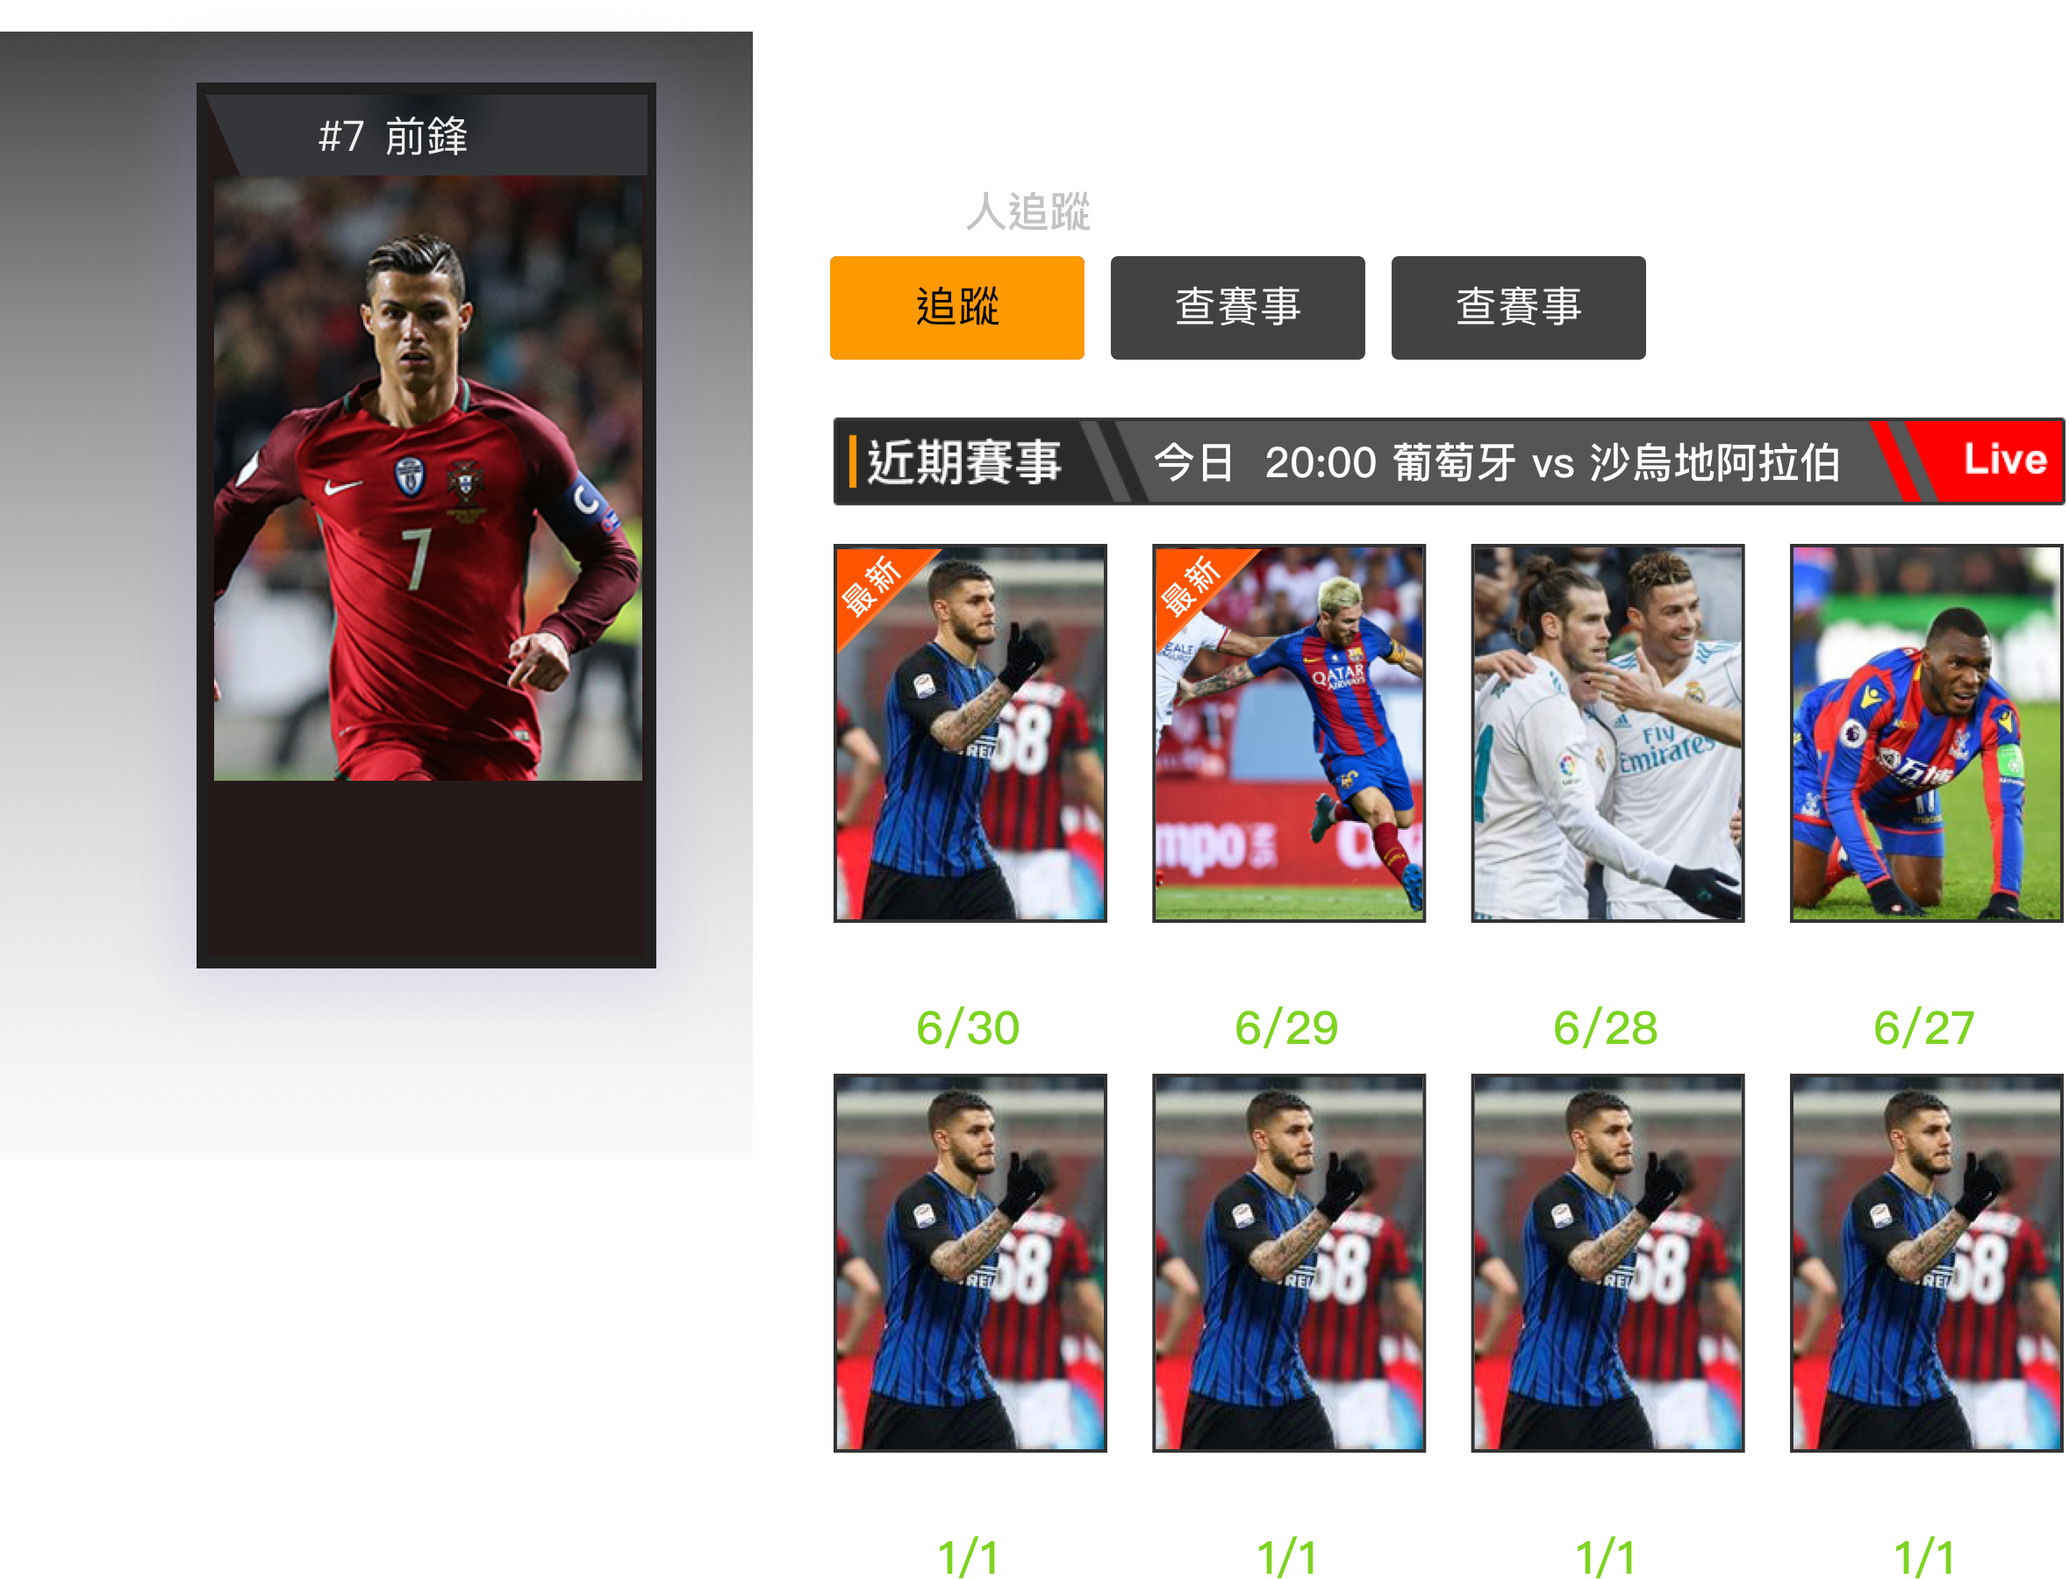
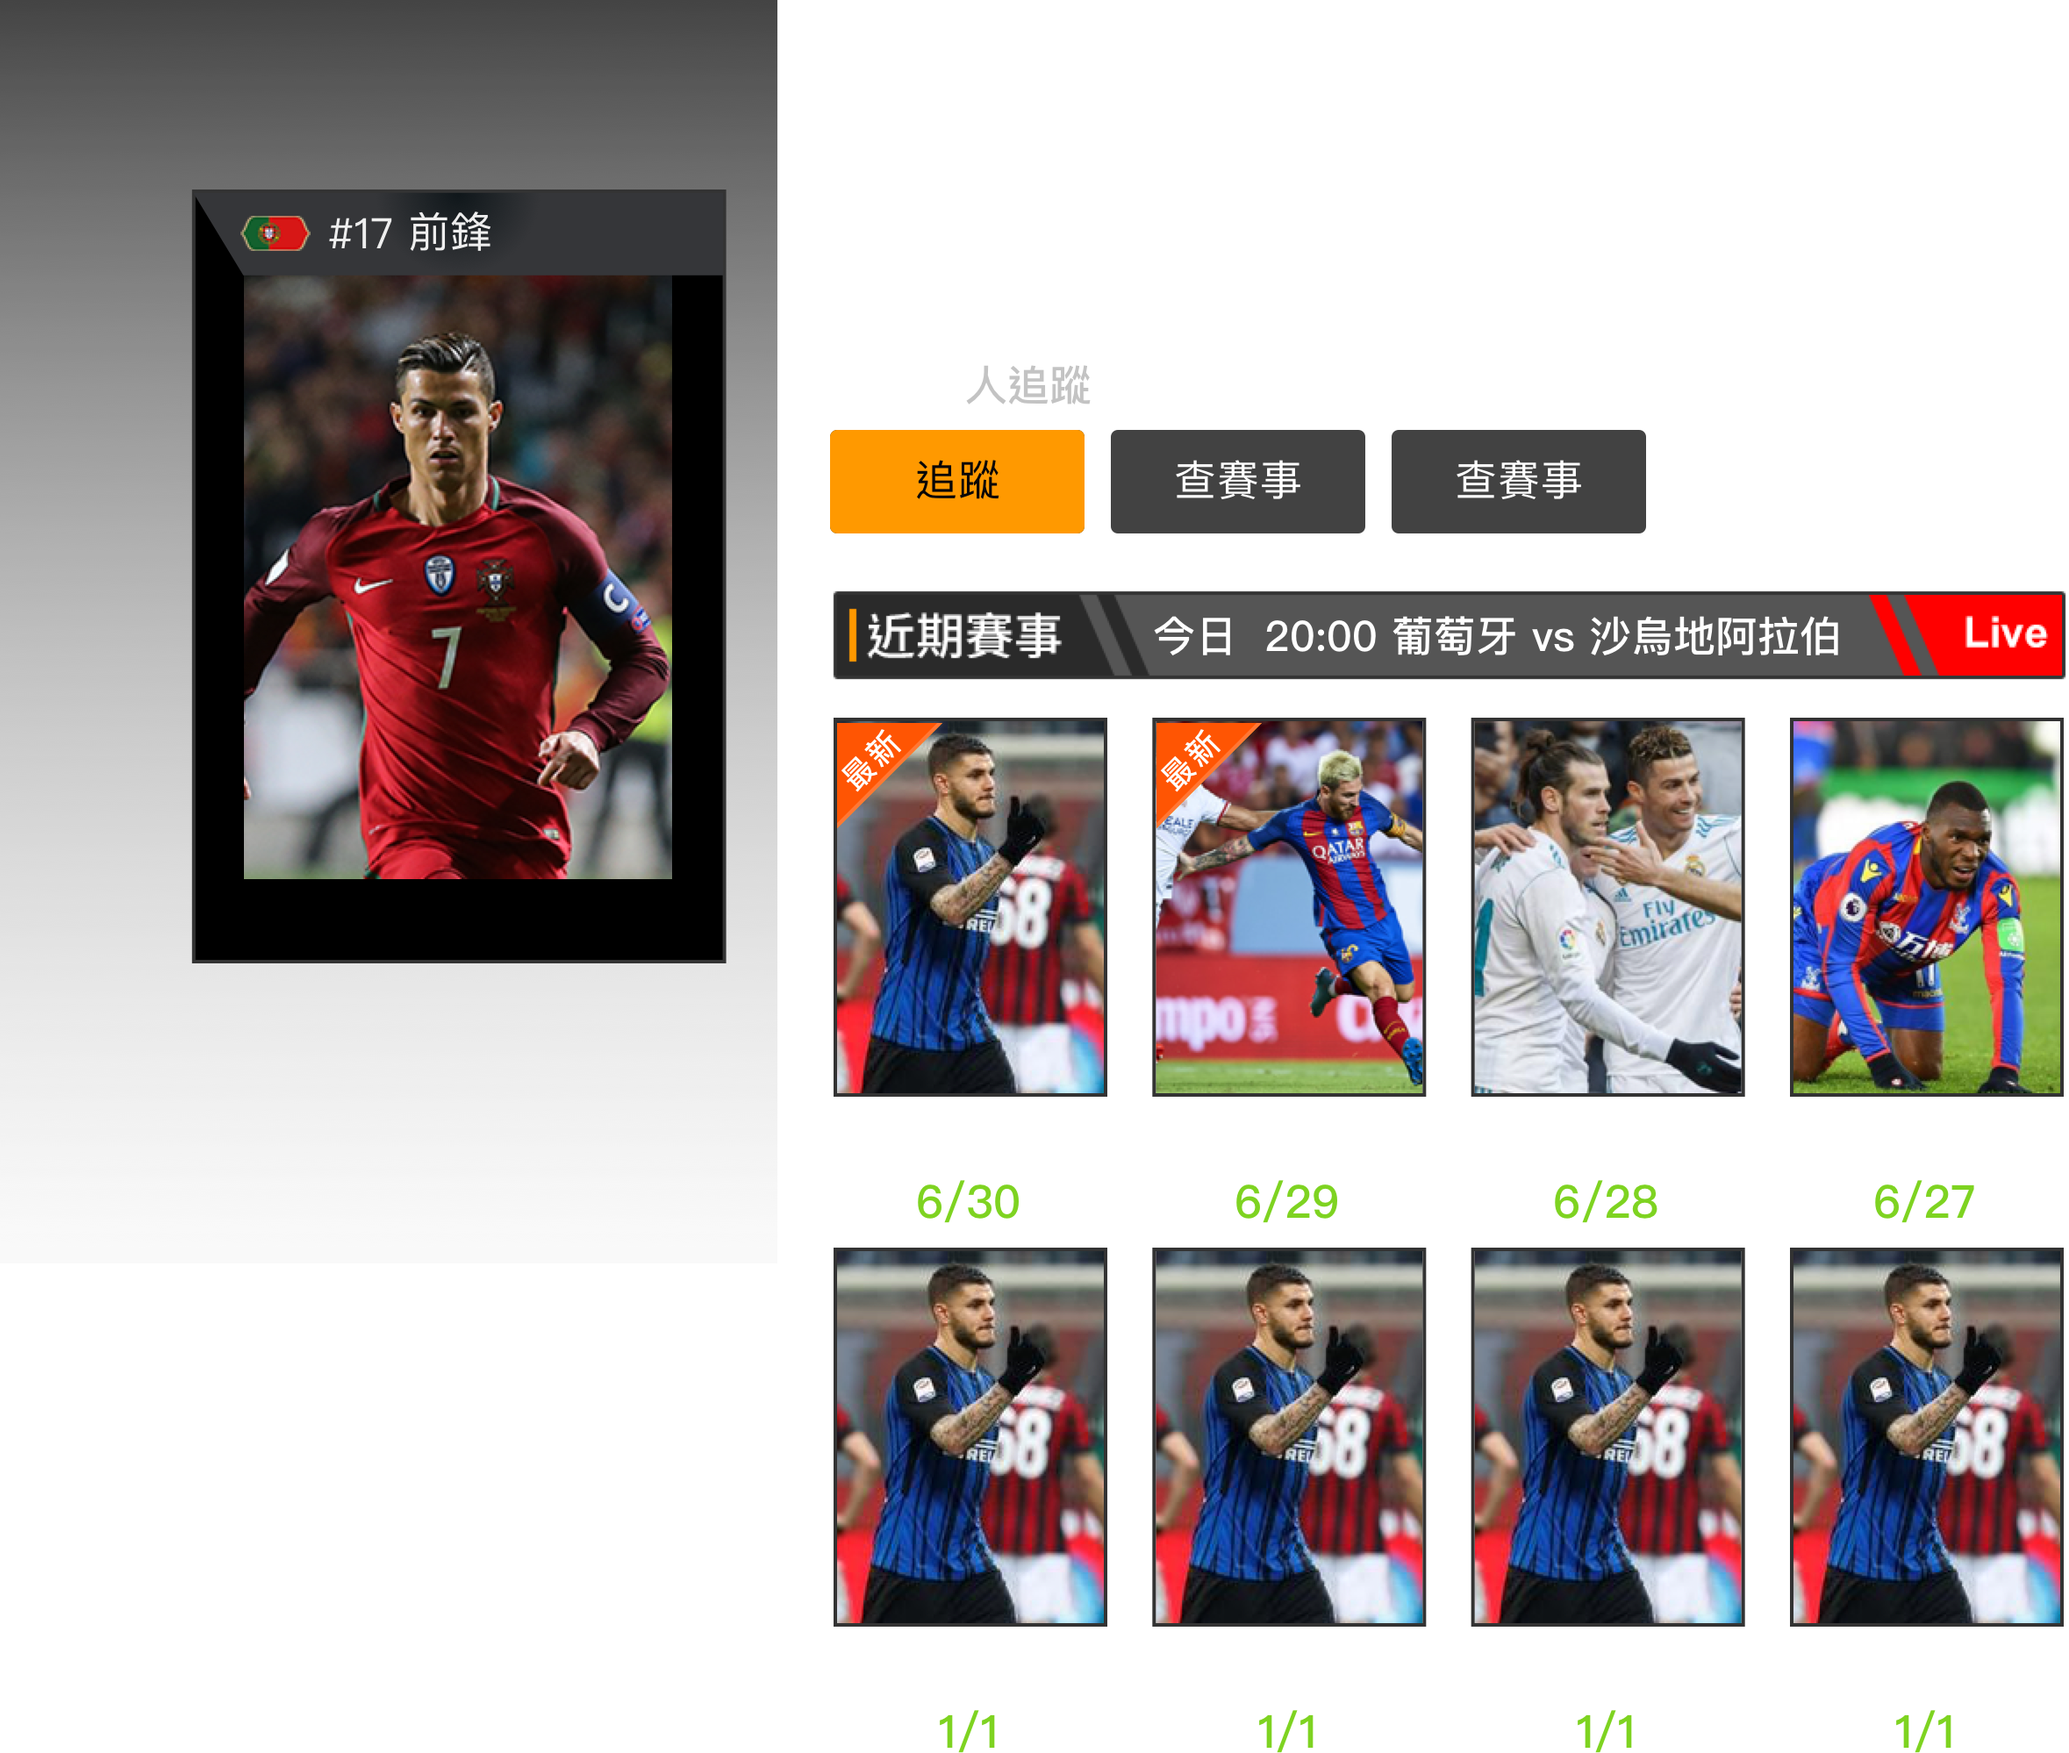
update

diff --git a/udo_framer/FIFA2018.framer/framer/framer.generated.js b/udo_framer/FIFA2018.framer/framer/framer.generated.js
@@ -380,9 +380,9 @@ window.__imported__["FIFA_Framer@2x/layers.json.js"] = [
 				"maskFrame": null,
 				"layerFrame": {
 					"x": 0,
-					"y": 99,
+					"y": 0,
 					"width": 1179,
-					"height": 900
+					"height": 999
 				},
 				"visible": true,
 				"metadata": {
@@ -392,9 +392,9 @@ window.__imported__["FIFA_Framer@2x/layers.json.js"] = [
 					"path": "images/Layer-playerui-mzy3ndm4.png",
 					"frame": {
 						"x": 0,
-						"y": 99,
+						"y": 0,
 						"width": 1179,
-						"height": 900
+						"height": 999
 					}
 				},
 				"children": []
@@ -1412,26 +1412,26 @@ window.__imported__["FIFA_Framer@2x/layers.json.js"] = [
 					{
 						"objectId": "0CE7F7BA-D442-4478-B810-E2192960791D",
 						"kind": "group",
-						"name": "NewChannelItem3",
-						"originalName": "NewChannelItem3",
+						"name": "NewChannelItemAD",
+						"originalName": "NewChannelItemAD",
 						"maskFrame": null,
 						"layerFrame": {
-							"x": 114,
+							"x": 115,
 							"y": 364,
-							"width": 338,
-							"height": 140
+							"width": 336,
+							"height": 138
 						},
 						"visible": true,
 						"metadata": {
 							"opacity": 1
 						},
 						"image": {
-							"path": "images/Layer-NewChannelItem3-menfn0y3.png",
+							"path": "images/Layer-NewChannelItemAD-menfn0y3.png",
 							"frame": {
-								"x": 114,
+								"x": 115,
 								"y": 364,
-								"width": 338,
-								"height": 140
+								"width": 336,
+								"height": 138
 							}
 						},
 						"children": []
@@ -4127,7 +4127,7 @@ window.__imported__["FIFA_Framer@2x/layers.json.js"] = [
 				"objectId": "4221D8F8-9A76-4608-97C4-9F2C7DE49528",
 				"kind": "group",
 				"name": "D_MINUS1",
-				"originalName": "D_MINUS1",
+				"originalName": "D_MINUS1*",
 				"maskFrame": null,
 				"layerFrame": {
 					"x": 0,

diff --git a/udo_framer/FIFA2018.framer/imported/FIFA_Framer@2x/layers.json.js b/udo_framer/FIFA2018.framer/imported/FIFA_Framer@2x/layers.json.js
@@ -376,9 +376,9 @@ window.__imported__["FIFA_Framer@2x/layers.json.js"] = [
 				"maskFrame": null,
 				"layerFrame": {
 					"x": 0,
-					"y": 99,
+					"y": 0,
 					"width": 1179,
-					"height": 900
+					"height": 999
 				},
 				"visible": true,
 				"metadata": {
@@ -388,9 +388,9 @@ window.__imported__["FIFA_Framer@2x/layers.json.js"] = [
 					"path": "images/Layer-playerui-mzy3ndm4.png",
 					"frame": {
 						"x": 0,
-						"y": 99,
+						"y": 0,
 						"width": 1179,
-						"height": 900
+						"height": 999
 					}
 				},
 				"children": []
@@ -1408,26 +1408,26 @@ window.__imported__["FIFA_Framer@2x/layers.json.js"] = [
 					{
 						"objectId": "0CE7F7BA-D442-4478-B810-E2192960791D",
 						"kind": "group",
-						"name": "NewChannelItem3",
-						"originalName": "NewChannelItem3",
+						"name": "NewChannelItemAD",
+						"originalName": "NewChannelItemAD",
 						"maskFrame": null,
 						"layerFrame": {
-							"x": 114,
+							"x": 115,
 							"y": 364,
-							"width": 338,
-							"height": 140
+							"width": 336,
+							"height": 138
 						},
 						"visible": true,
 						"metadata": {
 							"opacity": 1
 						},
 						"image": {
-							"path": "images/Layer-NewChannelItem3-menfn0y3.png",
+							"path": "images/Layer-NewChannelItemAD-menfn0y3.png",
 							"frame": {
-								"x": 114,
+								"x": 115,
 								"y": 364,
-								"width": 338,
-								"height": 140
+								"width": 336,
+								"height": 138
 							}
 						},
 						"children": []
@@ -4123,7 +4123,7 @@ window.__imported__["FIFA_Framer@2x/layers.json.js"] = [
 				"objectId": "4221D8F8-9A76-4608-97C4-9F2C7DE49528",
 				"kind": "group",
 				"name": "D_MINUS1",
-				"originalName": "D_MINUS1",
+				"originalName": "D_MINUS1*",
 				"maskFrame": null,
 				"layerFrame": {
 					"x": 0,
